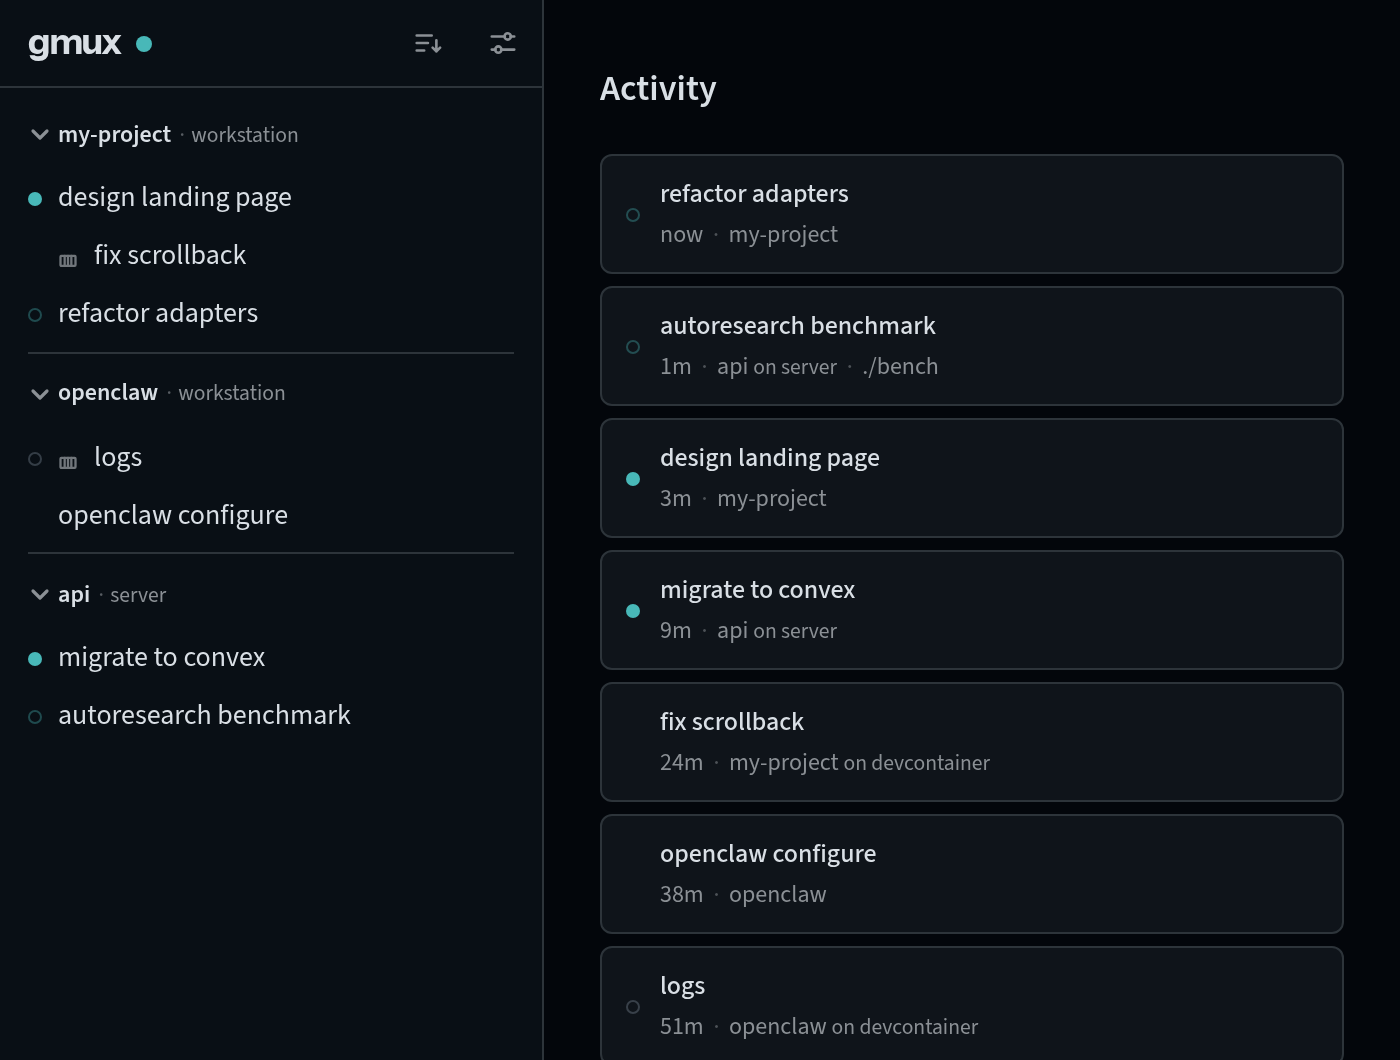
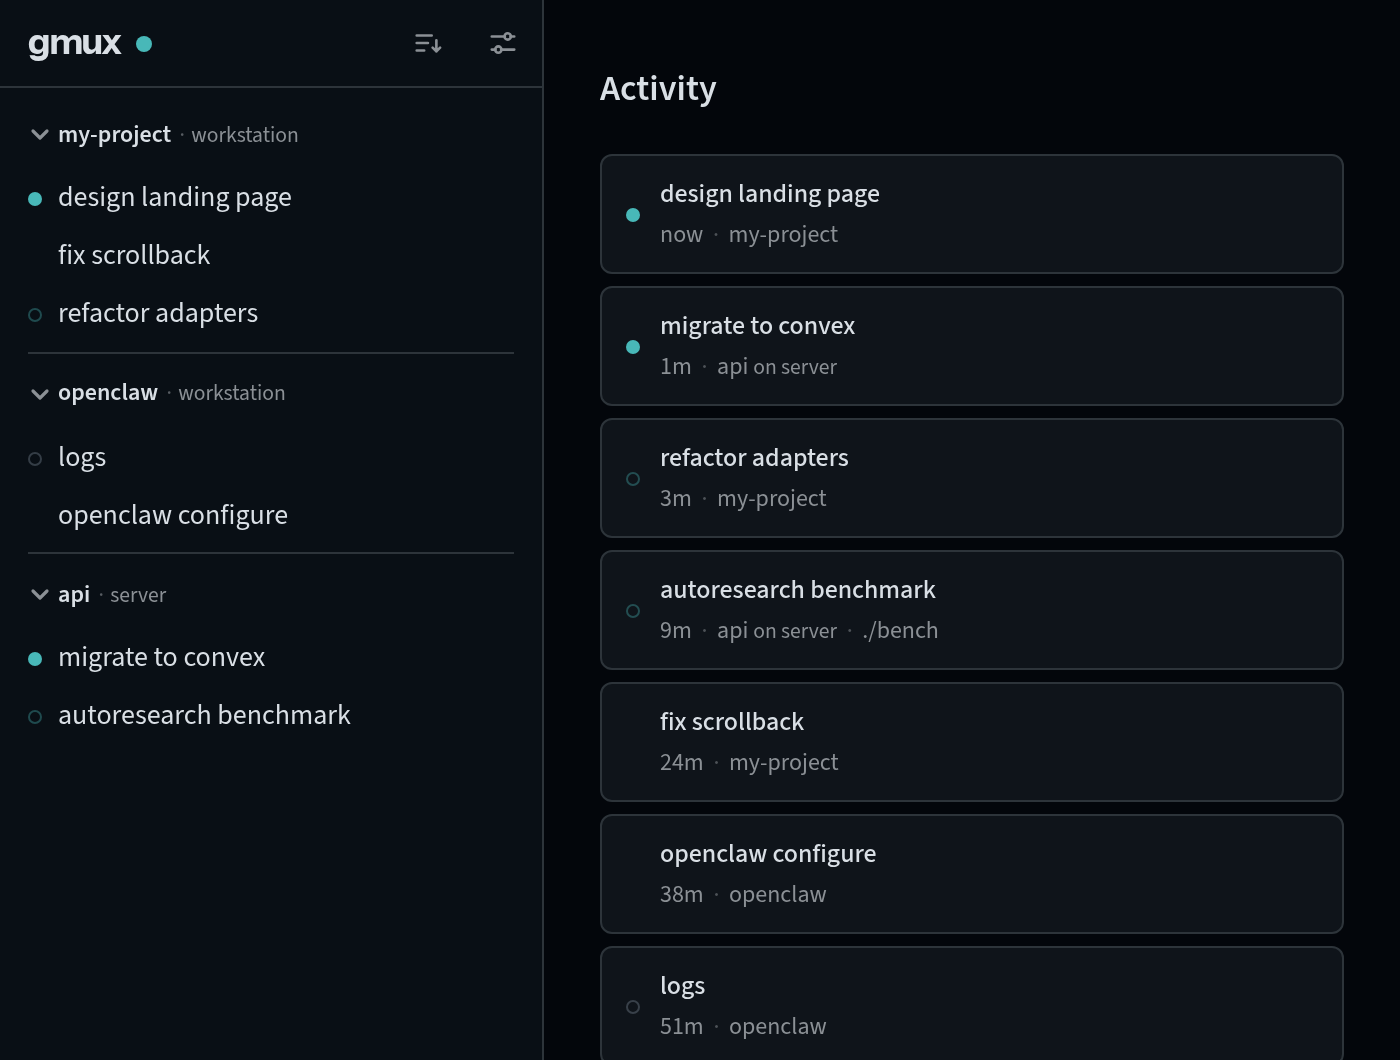
docs: polish the UI tour screenshot and copy
Stage the mock so unread sessions top the Activity feed (waiting beats
working on recency) and drop the devcontainer markers from the hero
sessions. Remove the 'dashboard' heading/wording, the xterm.js
parenthetical, and the 'by design' framing from the tour.

diff --git a/apps/gmux-web/src/mock-data/sessions/pi-fix-scrollback.ts b/apps/gmux-web/src/mock-data/sessions/pi-fix-scrollback.ts
@@ -27,7 +27,6 @@ export default {
   project_slug: 'my-project',
   last_output_at: ago(24),
   socket_path: '/tmp/gmux-sessions/mock.sock',
-  peer: 'devcontainer',
   terminal: [
     `${GRAY}╭──────────────────────────────────────────────────────╮${RST}`,
     `${GRAY}│${RST} ${BOLD}${MAGENTA}●${RST} ${BOLD}pi${RST} ${DIM}— fix scrollback${RST}${GRAY}                                  │${RST}`,

diff --git a/apps/gmux-web/src/mock-data/sessions/claude-design-landing.ts b/apps/gmux-web/src/mock-data/sessions/claude-design-landing.ts
@@ -25,7 +25,7 @@ export default {
   status: { active: false },
   unread: true,
   project_slug: 'my-project',
-  last_output_at: ago(3),
+  last_output_at: ago(0),
   socket_path: '/tmp/gmux-sessions/16jyedwd.sock',
   // Sized to 34 columns: the landing page's mobile hero captures this
   // session at a viewport that fits exactly 34 xterm columns, so lines

diff --git a/apps/gmux-web/src/mock-data/sessions/shell-openclaw-logs.ts b/apps/gmux-web/src/mock-data/sessions/shell-openclaw-logs.ts
@@ -24,7 +24,6 @@ export default {
   project_slug: 'openclaw',
   last_output_at: ago(51),
   socket_path: '/tmp/gmux-sessions/mock.sock',
-  peer: 'devcontainer',
   mockActive: true,
   terminal: [
     `${GRAY}[09:14:22]${RST} ${DIM}info${RST}  worker started pid=4821`,

diff --git a/apps/gmux-web/src/mock-data/sessions/codex-refactor-adapters.ts b/apps/gmux-web/src/mock-data/sessions/codex-refactor-adapters.ts
@@ -33,7 +33,7 @@ export default {
   status: { active: true },
   unread: false,
   project_slug: 'my-project',
-  last_output_at: ago(0),
+  last_output_at: ago(3),
   socket_path: '/tmp/gmux-sessions/1jd5z9sg.sock',
   cursorX: 2,
   cursorY: 70,

diff --git a/apps/gmux-web/src/mock-data/sessions/pi-autoresearch.ts b/apps/gmux-web/src/mock-data/sessions/pi-autoresearch.ts
@@ -25,7 +25,7 @@ export default {
   status: { active: true },
   unread: false,
   project_slug: 'api',
-  last_output_at: ago(1),
+  last_output_at: ago(9),
   socket_path: '/tmp/gmux-sessions/mock.sock',
   peer: 'server',
   mockActive: true,

diff --git a/apps/gmux-web/src/mock-data/sessions/codex-migrate.ts b/apps/gmux-web/src/mock-data/sessions/codex-migrate.ts
@@ -25,7 +25,7 @@ export default {
   status: { active: false },
   unread: true,
   project_slug: 'api',
-  last_output_at: ago(9),
+  last_output_at: ago(1),
   socket_path: '/tmp/gmux-sessions/mock.sock',
   peer: 'server',
   terminal: [

diff --git a/apps/website/src/content/docs/using-the-ui.md b/apps/website/src/content/docs/using-the-ui.md
@@ -1,13 +1,11 @@
 ---
 title: Using the UI
-description: A tour of the gmux dashboard — from your first session to working from your phone.
+description: A tour of the gmux web UI — from your first session to working from your phone.
 ---
 
-Running `gmux open` opens the dashboard in a dedicated browser window. You can also navigate to **[localhost:8790](http://localhost:8790)** directly; the first time you'll need to authenticate by visiting the login URL from `gmux auth`.
+Running `gmux open` opens gmux in a dedicated browser window. You can also navigate to **[localhost:8790](http://localhost:8790)** directly; the first time you'll need to authenticate by visiting the login URL from `gmux auth`.
 
-## The dashboard
-
-![The gmux dashboard: sessions grouped by project in the sidebar, the Activity feed on the right](../../assets/hero-desktop.png)
+![The gmux web UI: sessions grouped by project in the sidebar, the Activity feed on the right](../../assets/hero-desktop.png)
 
 The **sidebar** lists your sessions, grouped into projects. Home is **Activity**: a feed of live sessions across all your hosts, ordered by last output and grouped by day. A session floats up only when it produces new output you haven't seen — status changes its dot, not its position — so the queue stays stable while you work down it. An **Enable notifications** pill in the Activity header opts this browser into notifications for turns that finish while you're elsewhere.
 
@@ -15,7 +13,7 @@ In the sidebar header, the **gmux logo** takes you home (it lights up when a ses
 
 ## Your first project
 
-A fresh sidebar is empty **by design**: gmux discovers sessions but never adds anything to the sidebar on its own.
+A fresh sidebar is empty: gmux discovers sessions but never adds anything to the sidebar on its own.
 
 The natural way to fill it: run a gmux command in the folder you work in (`gmux -- pi`), then open **Settings → Projects** — the directory is already waiting under **Discovered**, so adding the project is one click. You can also launch straight from the UI: a fresh install shows a single **+** button (which seeds a default *home* project), and once you have projects, hovering a project name reveals its **+**, with a menu of the agents installed on that host.
 
@@ -23,7 +21,7 @@ Projects match sessions by filesystem path or git remote URL. Projects on other 
 
 ## The terminal
 
-Click a session to attach a full interactive terminal ([xterm.js](https://xtermjs.org/) — colors, mouse, images all work). **Cmd/Ctrl+F** opens find-in-terminal; the full default keymap and how to override it is in the [settings reference](/reference/settings/#default-keymap).
+Click a session to attach a full interactive terminal. **Cmd/Ctrl+F** opens find-in-terminal; the full default keymap and how to override it is in the [settings reference](/reference/settings/#default-keymap).
 
 The **⋮** menu holds the lifecycle action — **Restart** for a live session, **Resume** or **Rerun** for a dead one. Dead sessions replay their terminal history read-only: resuming continues an agent conversation where it left off, rerunning starts the command fresh in the same directory.
 
@@ -36,5 +34,5 @@ Open the same URL on your phone — or from anywhere via [remote access](/remote
 ## Next steps
 
 - **[Orchestrating agents](/orchestrating-agents/)** — launch agents from scripts or other agents, prompt them, and harvest their results.
-- **[Devcontainers](/devcontainers/)** — one line in `devcontainer.json` and container sessions appear in this dashboard.
+- **[Devcontainers](/devcontainers/)** — one line in `devcontainer.json` and container sessions appear alongside everything else.
 - **[Remote access](/remote-access/)** — reach gmux from your phone or another machine over your tailnet.
